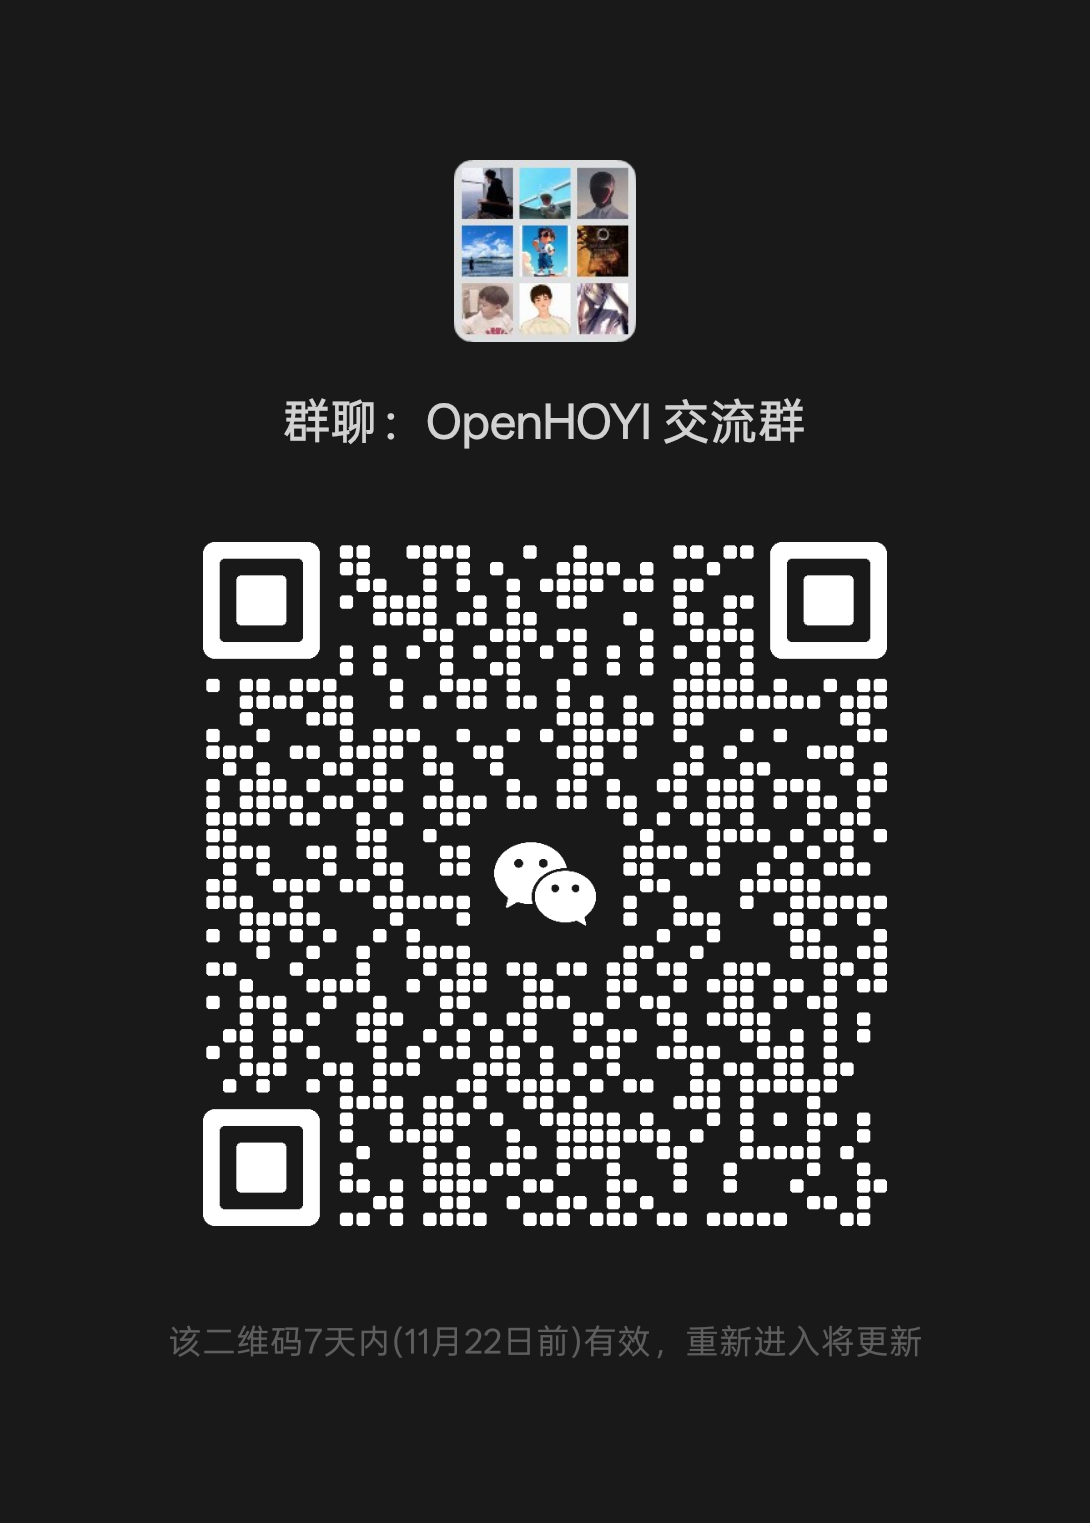
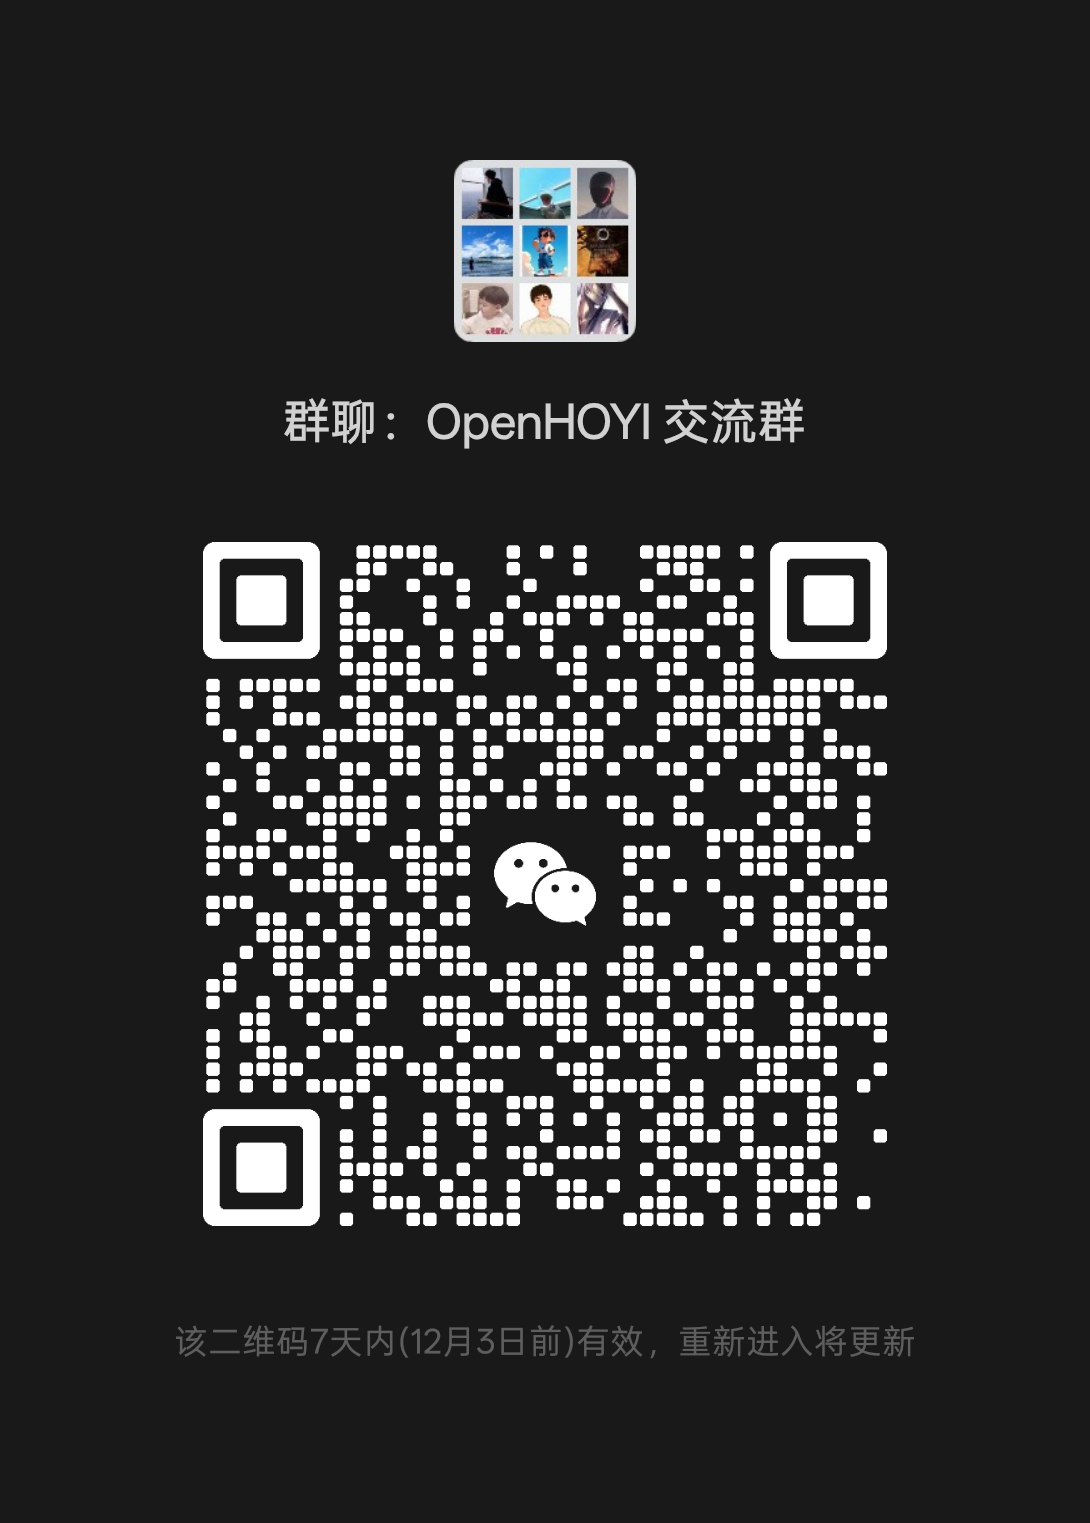
docs: refresh WeChat community invite

diff --git a/site/index.html b/site/index.html
@@ -628,10 +628,10 @@
             <p class="support-note">微信扫码 · 金额随意 · 自愿赞助</p>
           </article>
           <article class="support-card" data-reveal>
-            <img src="./assets/community/wechat-group.png?v=20261114" width="1090" height="1523" alt="OpenHOYI 微信交流群二维码" loading="lazy">
+            <img src="./assets/community/wechat-group.png?v=20261126" width="1090" height="1523" alt="OpenHOYI 微信交流群二维码" loading="lazy">
             <h3>OpenHOYI 交流群</h3>
             <p>扫码加入交流群。二维码失效时，请到 GitHub Issues 留言。</p>
-            <p class="support-note">群二维码会过期，本次图片注明 11 月 22 日前有效。</p>
+            <p class="support-note">群二维码会过期，本次图片注明 12 月 3 日前有效。</p>
           </article>
         </div>
       </div>

diff --git a/scripts/test_product_pages.py b/scripts/test_product_pages.py
@@ -290,9 +290,9 @@ class ProductPagesTest(unittest.TestCase):
                 self.assertIn(f'width="{size[0]}" height="{size[1]}"', self.html)
         group = SITE / "assets/community/wechat-group.png"
         self.assertEqual(hashlib.sha256(group.read_bytes()).hexdigest(),
[1 lines of base64/hex data omitted]
-        self.assertIn('wechat-group.png?v=20261114', self.html)
-        self.assertIn("11 月 22 日前有效", self.html)
[1 lines of base64/hex data omitted]
+        self.assertIn('wechat-group.png?v=20261126', self.html)
+        self.assertIn("12 月 3 日前有效", self.html)
         support = self.section("support")
         for text in ("请我喝杯咖啡", "OpenHOYI 交流群", "自愿赞助", "群二维码会过期",
                      "应用版本、Android 版本、设备型号与固件、复现步骤和脱敏日志"):

diff --git a/docs/plans/2026-11-26-wechat-invite.md b/docs/plans/2026-11-26-wechat-invite.md
@@ -1,0 +1,8 @@
+# 更新 OpenHOYI 微信交流群二维码
+
+- 需求与范围：将 GitHub Pages 中已过期的群二维码换成用户发来的原图，标记 12 月 3 日前有效；README 继续引用同一图片。
+- 基线：develop，7e27859ff3852cf0e1dc73ed372e77fd7838ad9f；工作分支 docs/wechat-invite-20261126，PR 目标 develop。
+- 改动：替换 PNG，同步页面显示日期、缓存参数和站点测试。尺寸仍为 1090 × 1523。
+- 推送与合并：本地检查后正常推送工作分支，使用仓库 PR 入口，等 branch-policy、verify 通过再合入。部署后核对线上日期和图片哈希，不扫码入群。
+- 风险：仅站点和共享图片，无协议、设备、签名或升级改动；不手工发 APK 或打标签，保留已有自动流程。
+- 回退：通过 PR 撤回页面及资源改动。旧二维码已过期，若需要长期回退，应隐藏旧邀请或使用新的有效图片。
